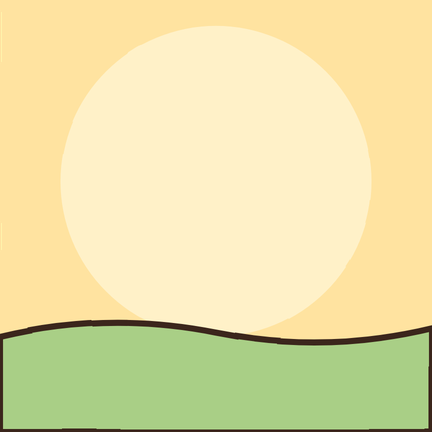
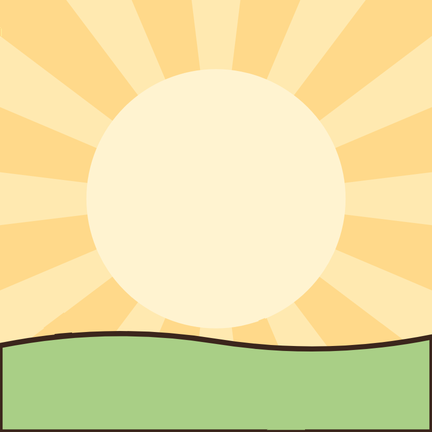
앱 아이콘 새로 그림 (낙서풍 · 화난 카피바라 상반신 + 좀비 A안 적용, B안은 비교 페이지) — 아이콘 크기로 바로 그려 선명하게

diff --git a/앱_아이콘_비교.html b/앱_아이콘_비교.html
@@ -1,0 +1,1 @@
+<!doctype html><html lang="ko"><head><meta charset="utf-8"><meta name="viewport" content="width=device-width,initial-scale=1"><title>앱 아이콘 비교</title><style>body{margin:0;padding:16px;background:#3a3a3a;color:#f3ead8;font-family:"Malgun Gothic",sans-serif}h1{font-size:22px}h2{font-size:16px;margin:6px 0}.r{background:#4a4a4a;border-radius:12px;padding:12px;margin:12px 0}.g{display:flex;gap:16px;align-items:flex-end;flex-wrap:wrap}p{line-height:1.6;color:#d8cfbf}</style></head><body><h1>앱 아이콘 — A안 · B안</h1><p>왼쪽부터 스토어용 정사각형 · 동그라미 · 둥근 네모(폰 홈 화면) · 96px · 48px(작게 보일 때). 지금 게임에는 <b>A안</b>을 넣었습니다. B안을 원하시면 "B안"이라고 말씀해 주세요.</p><div class="r"><h2>A안 (추천, 지금 적용) — 화난 카피바라 상반신 + 좀비</h2><div class="g"><img src="앱_아이콘_비교/icon_A.png" width="256"><img src="앱_아이콘_비교/icon_A_circle.png" width="160"><img src="앱_아이콘_비교/icon_A_squircle.png" width="160"><img src="앱_아이콘_비교/icon_A_96.png" width="96"><img src="앱_아이콘_비교/icon_A_48.png" width="48"></div></div><div class="r"><h2>B안 — 전신 카피바라 + 좀비</h2><div class="g"><img src="앱_아이콘_비교/icon_B.png" width="256"><img src="앱_아이콘_비교/icon_B_circle.png" width="160"><img src="앱_아이콘_비교/icon_B_squircle.png" width="160"><img src="앱_아이콘_비교/icon_B_96.png" width="96"><img src="앱_아이콘_비교/icon_B_48.png" width="48"></div></div><div class="r"><h2>지금까지 쓴 도트 아이콘 (비교용)</h2><div class="g"><img src="앱_아이콘_비교/icon_old.png" width="256"><img src="앱_아이콘_비교/icon_old_circle.png" width="160"><img src="앱_아이콘_비교/icon_old_squircle.png" width="160"><img src="앱_아이콘_비교/icon_old_96.png" width="96"><img src="앱_아이콘_비교/icon_old_48.png" width="48"></div></div></body></html>

diff --git a/tools/doodle_art.py b/tools/doodle_art.py
@@ -10,7 +10,7 @@
 
 그림 규칙: 선 #3b281c · 굵은 선 + 단색 · 살짝 흔들리는 선(feTurbulence) · 파스텔(쨍한 색 피함)
 """
-import os, sys, subprocess, tempfile, shutil
+import os, sys, subprocess, tempfile, shutil, math
 import numpy as np
 from PIL import Image
 
@@ -566,6 +566,53 @@ def make_app_icon():
     print('app icon')
 
 
+
+# ------------------------------------------------------------------ 앱 아이콘 2 (11-05 저녁): 아이콘 크기로 바로 그림 (선명) — A 상반신 크게 · B 전신
+def _icon_bg(s):
+    rays = ''.join(f'<path d="M{s/2} {s*.46} L{s/2 + s*.9*math.cos(math.radians(a - 7)):.1f} {s*.46 + s*.9*math.sin(math.radians(a - 7)):.1f} '
+                   f'L{s/2 + s*.9*math.cos(math.radians(a + 7)):.1f} {s*.46 + s*.9*math.sin(math.radians(a + 7)):.1f} Z" fill="#ffe9b0"/>' for a in range(0, 360, 30))
+    return (f'<rect width="{s}" height="{s}" fill="#ffd98a"/>{rays}'
+            f'<circle cx="{s*.5}" cy="{s*.46}" r="{s*.3}" fill="#fff3d0"/>'
+            f'<path d="M0 {s*.8} Q{s*.25} {s*.75} {s*.5} {s*.79} Q{s*.75} {s*.83} {s} {s*.78} L{s} {s} L0 {s} Z" fill="#a9cf86" stroke="{INK}" stroke-width="{s*.012}"/>')
+
+
+def _icon_fg(s, variant):
+    capy = (capy_body_svg(CAPY_SW, cos={'angry': 1}) + capy_gun_svg(CAPY_SW)).replace(INK, CAPY_INK)
+    zom = zombies()['basic']
+    flash = lambda x, y, r: (f'<g transform="translate({x},{y})">' + ''.join(
+        f'<path d="M0 0 L{r*math.cos(math.radians(a-14)):.1f} {r*math.sin(math.radians(a-14)):.1f} L{r*1.5*math.cos(math.radians(a)):.1f} {r*1.5*math.sin(math.radians(a)):.1f} L{r*math.cos(math.radians(a+14)):.1f} {r*math.sin(math.radians(a+14)):.1f} Z" fill="#ffd84d" stroke="{CAPY_INK}" stroke-width="{r*.12:.1f}" stroke-linejoin="round"/>'
+        for a in (-50, 0, 50)) + f'<circle r="{r*.55:.1f}" fill="#fff3b0"/></g>')
+    if variant == 'A':
+        k = s / 512
+        return (f'<g transform="translate({660*k:.1f},{60*k:.1f}) scale({-0.95*k:.3f},{0.95*k:.3f})">{zom}</g>'   # 좀비 (왼쪽을 봄, 오른쪽 끝)
+                + flash(458 * k, 334 * k, s * .05)
+                + f'<g transform="translate({-40*k:.1f},{40*k:.1f}) scale({3.0*k:.3f})">{capy}</g>')
+    k = s / 512
+    return (f'<g transform="translate({612*k:.1f},{s*.36:.1f}) scale({-0.85*k:.3f},{0.85*k:.3f})">{zom}</g>'
+            + flash((10 + 162 * 2.35) * k, (100 + 98 * 2.35) * k, s * .035)
+            + f'<g transform="translate({10*k:.1f},{100*k:.1f}) scale({2.35*k:.3f})">{capy}</g>')
+
+
+def make_app_icon2(variant='A', apply=True):
+    from PIL import ImageDraw
+    dst = os.path.join(ROOT, 'Kachi_Gun', 'Assets', 'Art', 'AppIcon')
+    sq = Image.fromarray(render(_icon_bg(512) + _icon_fg(512, variant), 512, 512, wob=2.0, freq=.01))
+    sq.convert('RGB').save(os.path.join(PREV, f'icon_{variant}.png'))
+    if not apply:
+        return
+    sq.convert('RGB').save(os.path.join(dst, 'app_icon.png'))
+    mask = Image.new('L', (512, 512), 0); ImageDraw.Draw(mask).ellipse((0, 0, 511, 511), fill=255)
+    rd = Image.new('RGBA', (512, 512), (0, 0, 0, 0)); rd.paste(sq, (0, 0), mask)
+    rd.save(os.path.join(dst, 'app_icon_round.png'))
+    # 적응형 432: 바탕 + 앞 그림(가운데 66% 안전 영역 안으로 줄여서)
+    Image.fromarray(render(_icon_bg(432), 432, 432, wob=2.0, freq=.01)).convert('RGB').save(os.path.join(dst, 'app_icon_bg.png'))
+    fg = Image.fromarray(render(_icon_fg(512, variant), 512, 512, wob=2.0, freq=.01))
+    f2 = Image.new('RGBA', (432, 432), (0, 0, 0, 0))
+    f2.alpha_composite(fg.resize((330, 330), Image.LANCZOS), (51, 62))   # 아래 잘린 몸 끝이 보이는 영역(72~360) 밖으로
+    f2.save(os.path.join(dst, 'app_icon_fg.png'))
+    print('app icon', variant)
+
+
 if __name__ == '__main__':
     what = set(sys.argv[1:]) or {'capy', 'zombie', 'map'}
     if 'capy' in what:
@@ -582,4 +629,5 @@ if __name__ == '__main__':
     if 'map' in what:
         make_map()
     if 'icon' in what:
-        make_app_icon()
+        make_app_icon2('B', apply=False)
+        make_app_icon2('A')   # 11-05 저녁: A(상반신) 적용, B 는 미리보기만
